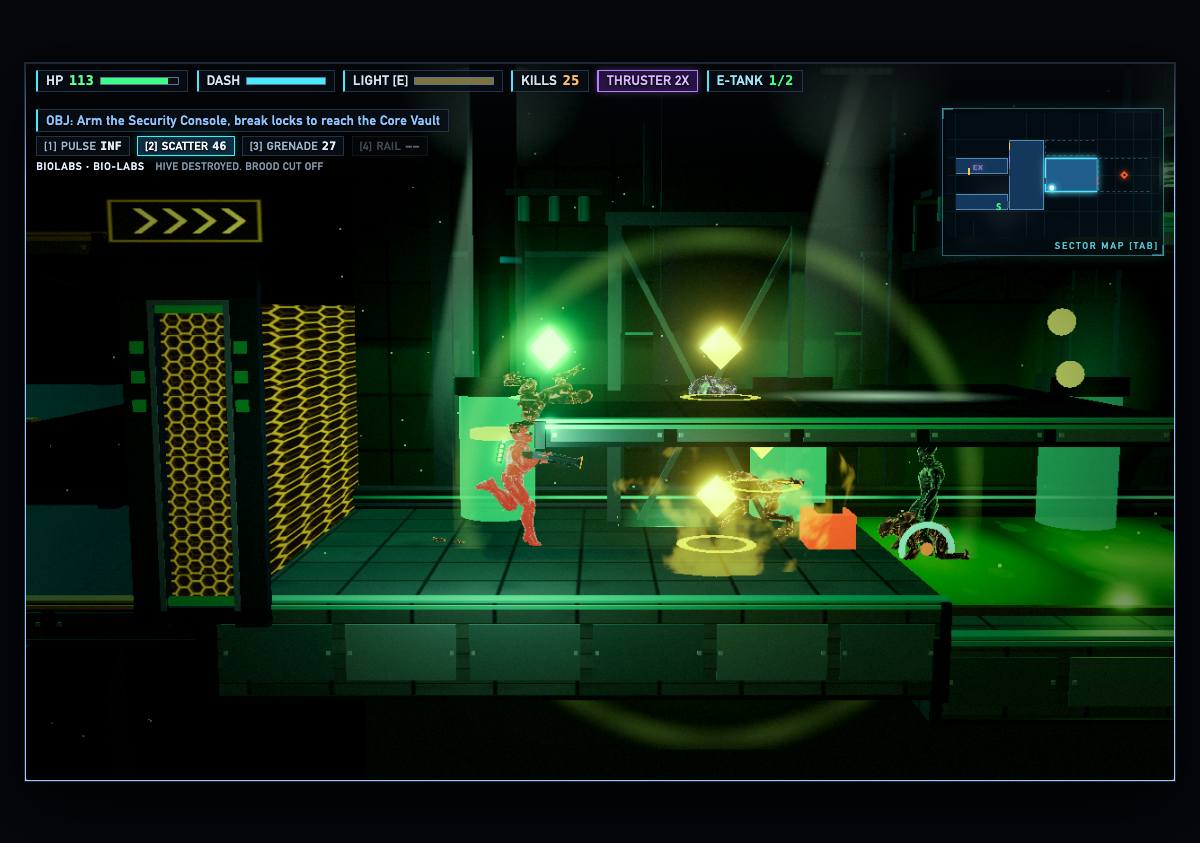
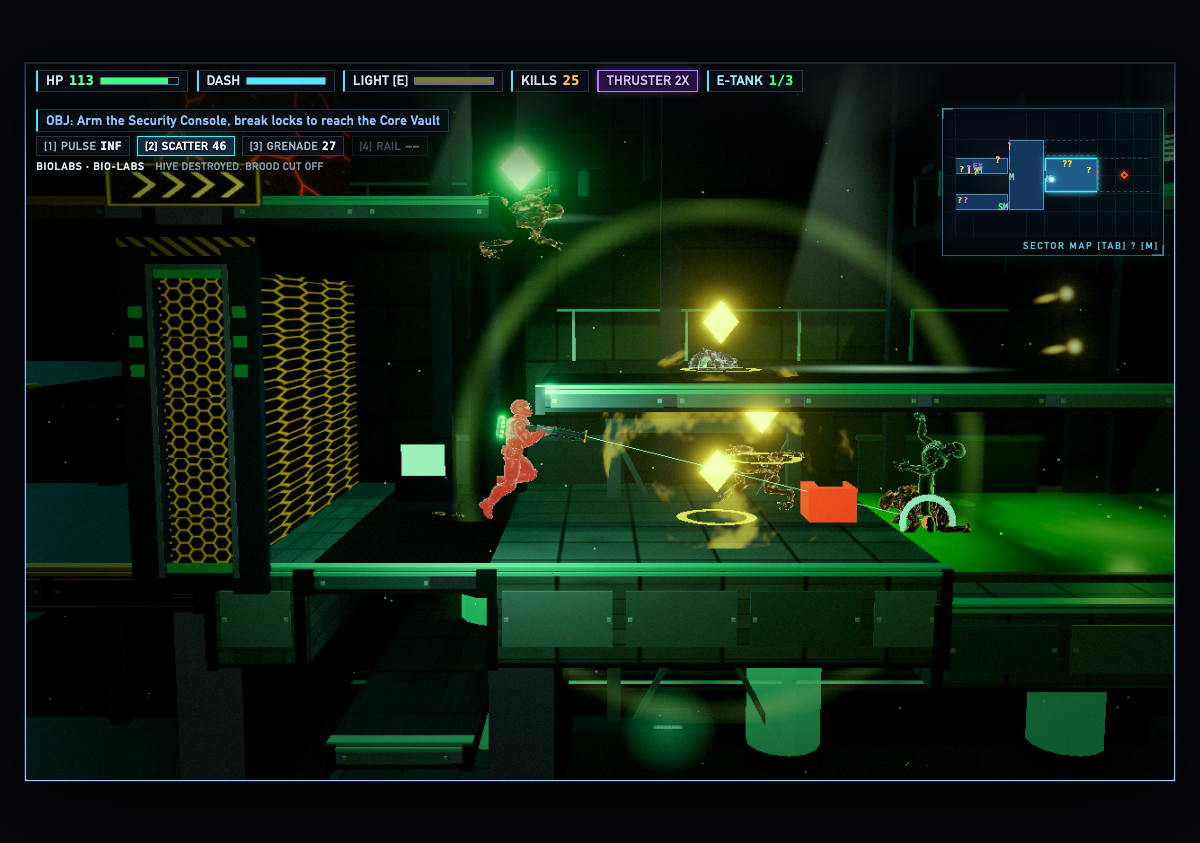
docs: R6 integration status, showcase images

diff --git a/README.md b/README.md
@@ -58,7 +58,7 @@ npm run dev        # Vite dev server, open the printed URL
 | Airborne `Shift` + `S` | Stomp |
 | Mouse | 360° aim |
 | Left click | Fire. With the Rail-Cannon, hold to charge and release |
-| `1` `2` `3` `4` / `Q` | Pulse, Scattergun, Grenade, Rail-Cannon |
+| `1` to `6` / `Q` | Pulse, Scattergun, Grenade, Rail-Cannon, Flamer, Rocket launcher |
 | `E` | Headlamp |
 | `F` | Save station / console |
 | `Tab` | Sector map |
@@ -75,6 +75,9 @@ Walls slow your fall when you press into them in the air, and wall jump needs th
 - **Combat depth.** Wall jump, dash cancel, stomp, per-weapon enemy matchups, kill combos that refund your dash, rail charge. See [`docs/R1_GAMEPLAY.md`](docs/R1_GAMEPLAY.md).
 - **Abuse-style enemies.** Ceiling droppers, wall and ceiling climbers, hive spawners, swarm flanking. See [`docs/R3_FOES.md`](docs/R3_FOES.md).
 - **Classic View.** Press `V` for a 320x200, 256-colour dithered, orthographic look with an optional CRT filter and a pixel HUD. The palette, font, and icons are original work. No Abuse data was read or copied. See [`docs/R3_CLASSIC.md`](docs/R3_CLASSIC.md).
+- **Six weapons (R6).** The Flamer (slot 5, cone, sets enemies burning) and the Rocket launcher (slot 6, accelerating, area blast, a capped rocket jump that cannot bypass the Thruster Boots gates) sit on pedestals in the Mines and the Security Deck. See [`docs/R6_ARMS.md`](docs/R6_ARMS.md).
+- **Demo tour and showcase (R6).** `Extras` has a Demo tour of 11 fixed checkpoints and a one-minute captioned Showcase reel, both on the real game loop. See [`docs/JUDGES.md`](docs/JUDGES.md).
+- **Item fanfares and sound pass (R6).** Five pickup fanfares, dedicated recipes for hazards, hives and the new weapons, proximity loops near live hazards, and an escape music that speeds up as the hatches close. See [`docs/R6_SOUND.md`](docs/R6_SOUND.md).
 - **Enemy rigs (R5).** Stride-locked gaits, pose channels, boss attack patterns, secondary motion, distance LOD. See [`docs/R5_RIG.md`](docs/R5_RIG.md).
 - **Metroid systems (R5).** Crawl Slide through two tunnels, three breakable blocks, six map terminals that reveal the minimap (`M`), extra Energy Tanks and Ammo Expansions, and an escape hatch that shuts during the Meltdown. See [`docs/R5_METROID.md`](docs/R5_METROID.md).
 - **Combat VFX (R5).** Short warm-white hit flash, glowing projectiles, capped chromatic kick, stacked damage popups, death pop, rail ready ring, scatter shock wave. Mesh merging and a soft steam shader keep draw calls down. See [`docs/R5_RENDER.md`](docs/R5_RENDER.md).
@@ -129,9 +132,9 @@ make smoke-local                 # build, then headless Chrome smoke test (tools
 node tools/game/playthrough.ts   # deterministic bot plays the whole game to the escape
 ```
 
-Observed on `main` at commit `c84649e`:
+Observed on `main` after the R6 merges (`8d38018`):
 
-- `make check` exit 0, 211 of 211 node tests, `reference-verify` 3 of 3 scenarios, `reach3d` 52 waypoints, `dist-guard` PASS on 13 files.
+- `make check` exit 0, 344 of 344 node tests, `reference-verify` 3 of 3 scenarios, `reach3d` 52 waypoints (3,432 ticks), `dist-guard` PASS on 13 files (14,684,946 B).
 - Bot run: won in 4,901 ticks with 126 of 160 HP and 50 kills.
 - Draw calls per sector: 159 to 275 in Modern, 123 in Classic. Zero browser console warnings.
 
@@ -166,6 +169,7 @@ Kiro was the working environment for the whole project, not only for code genera
 REANIMATOR는 1996년 DOS 게임 *Abuse* 셰어웨어 1.05의 이동 물리를 원본 실행 로그와 틱 단위로 대조해 복원하고(S1·S2·S3와 봉인 holdout M05, 11개 필드 exact 일치), 그 위에 브라우저에서 돌아가는 3D 사이드뷰 메트로배니아를 새로 설계한 프로젝트다.
 
 - **정직한 경계**: 복원한 것은 이동 물리뿐이다. 15 Hz는 설계값이며 원본 틱은 측정하지 않았다. 3D 게임의 나머지(섹터, 적, 무기, 보스, 음향, 그래픽)는 신규 설계다. 원본 Abuse 에셋은 포함하지 않으며 `dist-guard`가 빌드 산출물을 검사한다.
+- **R6**: 무기 6종(화염방사기·로켓 발사기, 로켓 점프는 부츠 게이트를 우회하지 못함), Extras의 데모 투어 11곳과 1분 쇼케이스, 아이템 팡파르 5종.
 - **실행**: `npm install` 후 `npm run dev`. `V`로 1996풍 Classic View, `Tab` 맵, `E` 헤드램프, `Shift` 대시, 공중 `Shift+S` 스톰프. 타이틀의 Extras에서 Restoration Lab을 열 수 있다.
-- **검증**: `make check`(main `c84649e` 기준 exit 0, 테스트 211/211, reference-verify 3/3, reach3d 52 waypoints), `make reference-holdout`, `make smoke-local`.
+- **검증**: `make check`(R6 병합 `8d38018` 기준 exit 0, 테스트 344/344, reference-verify 3/3, reach3d 52 waypoints), `make reference-holdout`, `make smoke-local`.
 - **Kiro 활용**: spec 5종, steering, hook, 병렬 worktree 서브에이전트 4라운드, Playwright 브라우저 검증. 상세는 [`docs/KIRO_USAGE.md`](docs/KIRO_USAGE.md), 심사위원용 3분 데모는 [`docs/JUDGES.md`](docs/JUDGES.md).

diff --git a/docs/STATUS.md b/docs/STATUS.md
@@ -1,6 +1,6 @@
 # 현재 상태
 
-최종 갱신: 2026-11-15 · R5 병합 완료(metroid·render·rig·vfx, `--no-ff`). 이전 상세판: [archive/STATUS_through_R3.md](archive/STATUS_through_R3.md).
+최종 갱신: 2026-11-15 · R6 병합 완료(arms·fix·sound·demo, `--no-ff`, HEAD 병합 `8d38018`). 이전 상세판: [archive/STATUS_through_R3.md](archive/STATUS_through_R3.md).
 
 ## 구현 상태
 
@@ -19,7 +19,17 @@
 - **R5-Rig** (`r5/rig`): 적 리깅(보폭 고정 걸음, 포즈 채널, 보스 패턴, 보조 모션, LOD, trace 지표). [R5_RIG](R5_RIG.md)
 - **R5-VFX** (`r5/vfx`): 4틱 웜화이트 피격 플래시(상한 0.3), 투사체 글로우 파티클, 색수차 상한 0.42, 팝업 티어·스택, 사망 팝, 레일 준비 링·음, 스캐터 파동.
 
-## 검증 기준선 (R5 병합 후, 통합 에이전트 관찰)
+- **R6-Arms** (`r6/arms`): 무기 5 Flamer(원뿔·burn), 6 Rocket(가속·폭발·로켓 점프 제한), 페데스털 2곳, HUD 슬롯 6, 키 5·6. [R6_ARMS](R6_ARMS.md)
+- **R6-Fix** (`r6/fix`): 표시 시간 기준 플레이어 피격 플래시, 폭발 화구 림 마스크, 맵 단말 캔버스 텍스처, `flat-boxes` 진단.
+- **R6-Sound** (`r6/sound`): R3~R5 이벤트 전용 레시피, 팡파르 5종, 근접 루프, 탈출 음악. 병합 시 arms 이벤트(flamer·rocket·burn·rocket_jump)와 로켓 폭발(`explosion` value 1)을 전용 레시피에 연결, `PENDING_EVENT_SOUND` 제거. [R6_SOUND](R6_SOUND.md)
+- **R6-Demo** (`r6/demo`): `src/ui/demo.ts` 데모 투어 11곳, 쇼케이스 릴, `__reanimatorShowcase`·`__reanimatorDemo`. 늦은 체크포인트(보안 데크 이후, 보스)는 무기 6종 지급. [JUDGES](JUDGES.md)
+
+## 검증 기준선 (R6 병합 후, 통합 에이전트 관찰)
+
+- `make check` exit 0: tsc 통과, node 테스트 344/344, `reference-verify` 3/3 PASS, `reach` PASS, `reach3d` 52 waypoints 3432 ticks(로켓 점프 우회 검사 포함), vite build, dist-guard PASS(13 files, 14,684,946 B, 218 대조).
+- 충돌: `audioLogic.ts`·`main.ts`(sound 병합), `main.ts`(demo 병합). arms는 자동 병합, fix는 자동 병합. 브라우저 검증과 봇 완주 재측정은 unverified.
+
+## 이전 기준선 (R5 병합 후)
 
 - `make check` exit 0: tsc 통과, node 테스트 291/291, `reference-verify` 3/3 PASS, `reach` PASS, `reach3d` 52 waypoints 3432 ticks(57.2 s), vite build, dist-guard PASS(13 files, 14,652,123 B, 218 대조). 병합 충돌은 `scene3dFull.ts` 1곳(metroid3d 빌드와 hazards `setClassic`, 양쪽 유지). rig·vfx는 자동 병합. frontLift는 벽·램프 재질 전용이라 적 림 셰이더와 겹치지 않음(코드 확인).
 - 브라우저 검증(콘솔, drawCalls, 쇼케이스 재촬영)은 오케스트레이터가 진행 중이며 이 문서 작성 시점에는 unverified. 봇 완주 수치는 metroid 브랜치 측정 won 5362 ticks, HP 112이며 병합 후 재측정은 unverified.

diff --git a/docs/JUDGES.md b/docs/JUDGES.md
@@ -13,7 +13,7 @@ Every stop below is in `Extras` > `Demo tour`. Each one drops you into the norma
 | 0:25 | `Extras` > `Restoration Lab`. | The core claim. The left side is the numeric log captured from the 1996 original. The right side is our `motion.ts` replaying the same input. 11 fields per tick match exactly on S1, S2, S3 and the sealed holdout M05. Tick "Demo mutation": a wall moves 3 px and the comparator flags the first mismatch. It is a demo, not an original bug. |
 | 1:00 | `Demo tour` > `Airlock start`. Run right with `D`, aim with the mouse, fire with left click, `Shift` dashes. | 60 Hz deterministic sim, hit-stop and screen shake on kills, combo kills refund the dash. Only movement physics is restored; everything else is new design. |
 | 1:15 | `Demo tour` > `Mines: crusher and hive`. | Telegraphed crusher, vents, acid, a hive that spawns larvae. Hazards warn before they hurt. |
-| 1:30 | `Demo tour` > `Bio-Labs: switch and barrels`. | Explosive barrels chain, the gantry switch (`F`) extends a bridge, four weapons each open a different lock. |
+| 1:30 | `Demo tour` > `Bio-Labs: switch and barrels`. | Explosive barrels chain, the gantry switch (`F`) extends a bridge, four weapons each open a different lock; slots 5 and 6 add a Flamer and a Rocket launcher (a Security Deck stop carries all six). |
 | 1:45 | `Demo tour` > `Security: laser grid`. | Lasers cycle on a timer; the Security Console turns them off. |
 | 1:55 | `Demo tour` > `Crawl Slide tunnel`. Hold `S` and dash. | Ability-gated shortcut: the Crawl Slide module opens a 1 m duct. |
 | 2:05 | `Demo tour` > `Core Warden: phase II`. (I and III are also listed.) | Telegraphed attacks, weak-point window, damage numbers, three phases, no cinematic needed. |
@@ -41,7 +41,7 @@ make reference-holdout   # 4/4 including sealed M05
 make smoke-local         # needs Chrome; headless browser smoke test
 ```
 
-Observed on `main` at `c84649e`: `make check` exit 0, 211 of 211 node tests, `reference-verify` 3 of 3, `reach3d` 52 waypoints, `dist-guard` PASS on 13 files. Bot run won in 4,901 ticks. `make reference-holdout` was last observed 4 of 4 on an earlier engine revision and the sealed engine files have not changed since.
+Observed on `main` after the R6 merges (`8d38018`): `make check` exit 0, 344 of 344 node tests, `reference-verify` 3 of 3, `reach3d` 52 waypoints (3,432 ticks), `dist-guard` PASS on 13 files. A bot run after the R6 merge has not been re-measured (unverified); the last measured run won in 5,362 ticks. `make reference-holdout` was last observed 4 of 4 on an earlier engine revision and the sealed engine files have not changed since.
 
 Not verified: human play-through difficulty, and `make smoke-local` on the newest build (earlier runs aborted in a sandboxed Chrome).
 

diff --git a/docs/KIRO_USAGE.md b/docs/KIRO_USAGE.md
@@ -128,3 +128,17 @@ R4와 같은 방식(트랙별 worktree `/private/tmp/r5-{rig,metroid,render,vfx}
 - 병합: 충돌은 `scene3dFull.ts` 1곳이었고 양쪽을 유지했다. `make check` 291/291 테스트로 통과(위 STATUS 기준선).
 - 사용자 요청 대응: "적 애니메이션도 자연스럽게 리깅" → R5-Rig, "Abuse에서 미비한 건 Metroid에서" → R4 계획 문서(`R4_METROID_GAPS`)를 R5-Metroid로 일부 구현.
 - 브라우저 검증은 오케스트레이터가 진행 중이며 아직 기록하지 않았다(unverified).
+
+## 2026-11-15 — R6 병렬 라운드 (오케스트레이터 + worktree 서브에이전트)
+
+R5와 같은 방식(worktree `/private/tmp/r6-{arms,fix,sound,demo}`, 로컬 커밋, 통합 에이전트가 `--no-ff` 병합)으로 4트랙을 돌렸다. 통합 에이전트의 사실 기록이다.
+
+| 트랙(브랜치) | 커밋 | 내용 |
+|---|---|---|
+| r6/arms | `e84d514` | Flamer·Rocket 무기, 로켓 점프 제한, 페데스털, HUD 슬롯 6 |
+| r6/fix | `267cea9` | 피격 플래시, 폭발 화구 셰이더, 맵 단말 텍스처, flat-boxes 진단 |
+| r6/sound | `2c056e9` | 전용 레시피, 팡파르, 근접 루프, 탈출 음악 |
+| r6/demo | `ed0c2f4` | 데모 투어, 쇼케이스 릴, 심사위원 가이드 |
+
+- 병합 충돌은 `audioLogic.ts`와 `main.ts`에서 났고 양쪽 의도를 유지해 해결했다(PROGRESS_LOG 참조). 사운드 트랙이 미리 만들어 둔 무기용 레시피를 arms 이벤트에 연결한 것이 통합 단계의 실질 작업이었다.
+- `make check` exit 0, 테스트 344/344. 브라우저 확인과 청취 검증은 하지 않았다(unverified).

diff --git a/docs/NEXT_PLAN.md b/docs/NEXT_PLAN.md
@@ -2,6 +2,13 @@
 
 이전 계획 전문: [archive/NEXT_PLAN_through_R3.md](archive/NEXT_PLAN_through_R3.md)(재귀 개선 1~3차, 몬스터·지형, R1~R3 후속 체크리스트 포함).
 
+## R6 병합 후
+
+- [x] arms → fix → sound → demo 병합, `make check` 통과(STATUS 기준선).
+- [ ] 브라우저 확인: 키 5·6과 wpn-5/6 칩, 화염·로켓 렌더, 로켓 점프, 데모 투어 11곳과 쇼케이스 재생, 팡파르·근접 루프 청취(unverified, 귀로 확인 필요), 콘솔 오류 0.
+- [ ] 쇼케이스 PNG 재촬영(`tools/smoke/capture-showcase.ts`)과 `make smoke-local`.
+- [ ] 병합 후 봇 완주 재측정.
+
 ## R5 병합 후 (오케스트레이터)
 
 - [x] metroid → render → rig → vfx 병합, `make check` 통과(STATUS 기준선).
